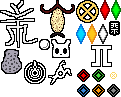
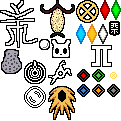
1.5 data

diff --git a/StaticData.cs b/StaticData.cs
@@ -102,7 +102,7 @@ namespace Cornifer
             ["Saint"] = new() { "SU", "HI", "UG", "CC", "GW", "VS", "CL", "SL", "SI", "LF", "SB", "HR" },
             ["Spear"] = new() { "SU", "HI", "DS", "CC", "GW", "SH", "VS", "LM", "SI", "LF", "UW", "SS", "SB", "DM" },
             ["Gourmand"] = new() { "SU", "HI", "DS", "CC", "GW", "SH", "VS", "SL", "SI", "LF", "UW", "SS", "SB", "OE" },
-			["Watcher"] = new() { "SU", "HI", "CC", "SH", "VS", "LF", "WARA", "WARB", "WARC", "WARD", "WARE", "WARF", "WARG", "WAUA", "WBLA", "WDSR", "WGWR", "WHIR", "WORA", "WPTA", "WRFA", "WRFB", "WRRA", "WRSA", "WSKA", "WSKB", "WSKC", "WSKD", "WSSR", "WSUR", "WTDA", "WTDB", "WVWA" },
+			["Watcher"] = new() { "SU", "HI", "CC", "SH", "VS", "LF", "WARA", "WARB", "WARC", "WARD", "WARE", "WARF", "WARG", "WAUA", "WBLA", "WDSR", "WGWR", "WHIR", "WORA", "WPTA", "WRFA", "WRFB", "WRRA", "WRSA", "WSKA", "WSKB", "WSKC", "WSKD", "WSSR", "WSUR", "WTDA", "WTDB", "WVWA", "WVWB", "WMPA", "WPGA" },
 			[""] = new() { "SU", "HI", "DS", "CC", "GW", "SH", "VS", "SL", "SI", "LF", "UW", "SS", "SB" },
         };
 
@@ -127,22 +127,18 @@ namespace Cornifer
 			["WSKA_D02"] = "SH",
 			["WARA_P05"] = "WARB",
 			["WARA_E08"] = "WARC",
-			["WARB_F01"] = "WARD",
 			["WSSR_CRAMPED"] = "WARD",
 			["WSKC_A03"] = "WARE",
-			["WARB_H13"] = "WARE",
 			["SB_D07"] = "WAUA",
-			["WSKD_B01"] = "WBLA",
-			["WSSR_CRAMPED"] = "WBLA",
+			["WVWB_B05"] = "WBLA",
 			["WTDA_B12"] = "WARF",
-			["WRSA_C01"] = "WORA",
-			["WORA_STARCATCHER02"] = "WORA",
+			["WORA_DIAL"] = "WORA",
 			["WARA_P08"] = "WPTA",
 			["WARE_I01X"] = "WRFB",
 			["WRFB_A11"] = "WRFA",
 			["WARA_P17"] = "WRSA",
 			["WPTA_B10"] = "WSKC",
-			["WARD_R15"] = "WSKD",
+			["WARD_R15"] = "WVWB",
 			["WBLA_C01"] = "WTDA",
 			["WARC_E03"] = "WVWA",
 			["WRFB_D09"] = "WTDB",

diff --git a/SpriteAtlases.cs b/SpriteAtlases.cs
@@ -135,11 +135,18 @@ namespace Cornifer
 			{"SmallMoth", ("Kill_SmallMoth", new(127, 127, 127)) },
 			{"Tardigrade", ("Kill_Tardigrade", new(0, 255, 255)) },
 
+			{"PeachLizard", ("Kill_Peach", new(255, 120, 131)) },
+			{"MothGrub", ("Kill_MothGrub", new(255, 178, 140)) },
+			{"TowerCrab", ("Kill_DrillCrab", new(82, 56,46)) },
+			{"Angler", ("Kill_Angler", new(169, 164, 178)) },
+			{"AltSkyWhale", ("Kill_SkyWhale", new(127, 115, 89)) },
+
 			{"Boomerang", ("Symbol_Boomerang", new(255, 204, 76)) },
 			{"FireSpriteLarva", ("Symbol_FireSpriteLarva", new(255, 255, 255)) },
 			{"Pomegranate", ("Symbol_Pomegranate", new(0, 170, 14)) },
 			{"RotcornPlant", ("Symbol_RotcornPlant", new(76, 0, 255)) },
-			{"RotFruit", ("Symbol_RotFruit", new(76, 0, 255)) }
+			{"RotFruit", ("Symbol_RotFruit", new(76, 0, 255)) },
+			{"GraffitiBomb", ("Symbol_GraffitiBomb", new(153, 102, 255)) }
 		};
 
         static readonly Dictionary<string, (Rectangle Frame, Color Color)> ObjectSpriteFrames = new()
@@ -163,7 +170,9 @@ namespace Cornifer
 			{ "SpinningTopSpot",  (new(0,  0,   38, 48), new(255, 255, 255, 255)) },
 			{ "RippleWarpPoint",  (new(24, 60,  22, 24), new(0.373f, 0.11f, 0.831f, 0.75f)) },
 			{ "WarpPoint",		  (new(48, 60,  24, 25), new(0.373f, 0.11f, 0.831f, 0.75f)) },
-			{ "EchoWarpPoint",    (new(48, 60,  24, 25), new(1f, 0.73f, 0.368f, 0.75f)) }
+			{ "EchoWarpPoint",    (new(48, 60,  24, 25), new(1f, 0.73f, 0.368f, 0.75f)) },
+			{ "WeaverSpot",		  (new(48, 86,  28, 34), new(255, 255, 255, 255)) },
+			{ "RippleSpawnEgg",   (new(23, 85,  24, 24), new(104, 90, 251, 255)) },
 		};
 
         static readonly Dictionary<string, (Rectangle Frame, Color Color)> MiscSpriteFrames = new()
